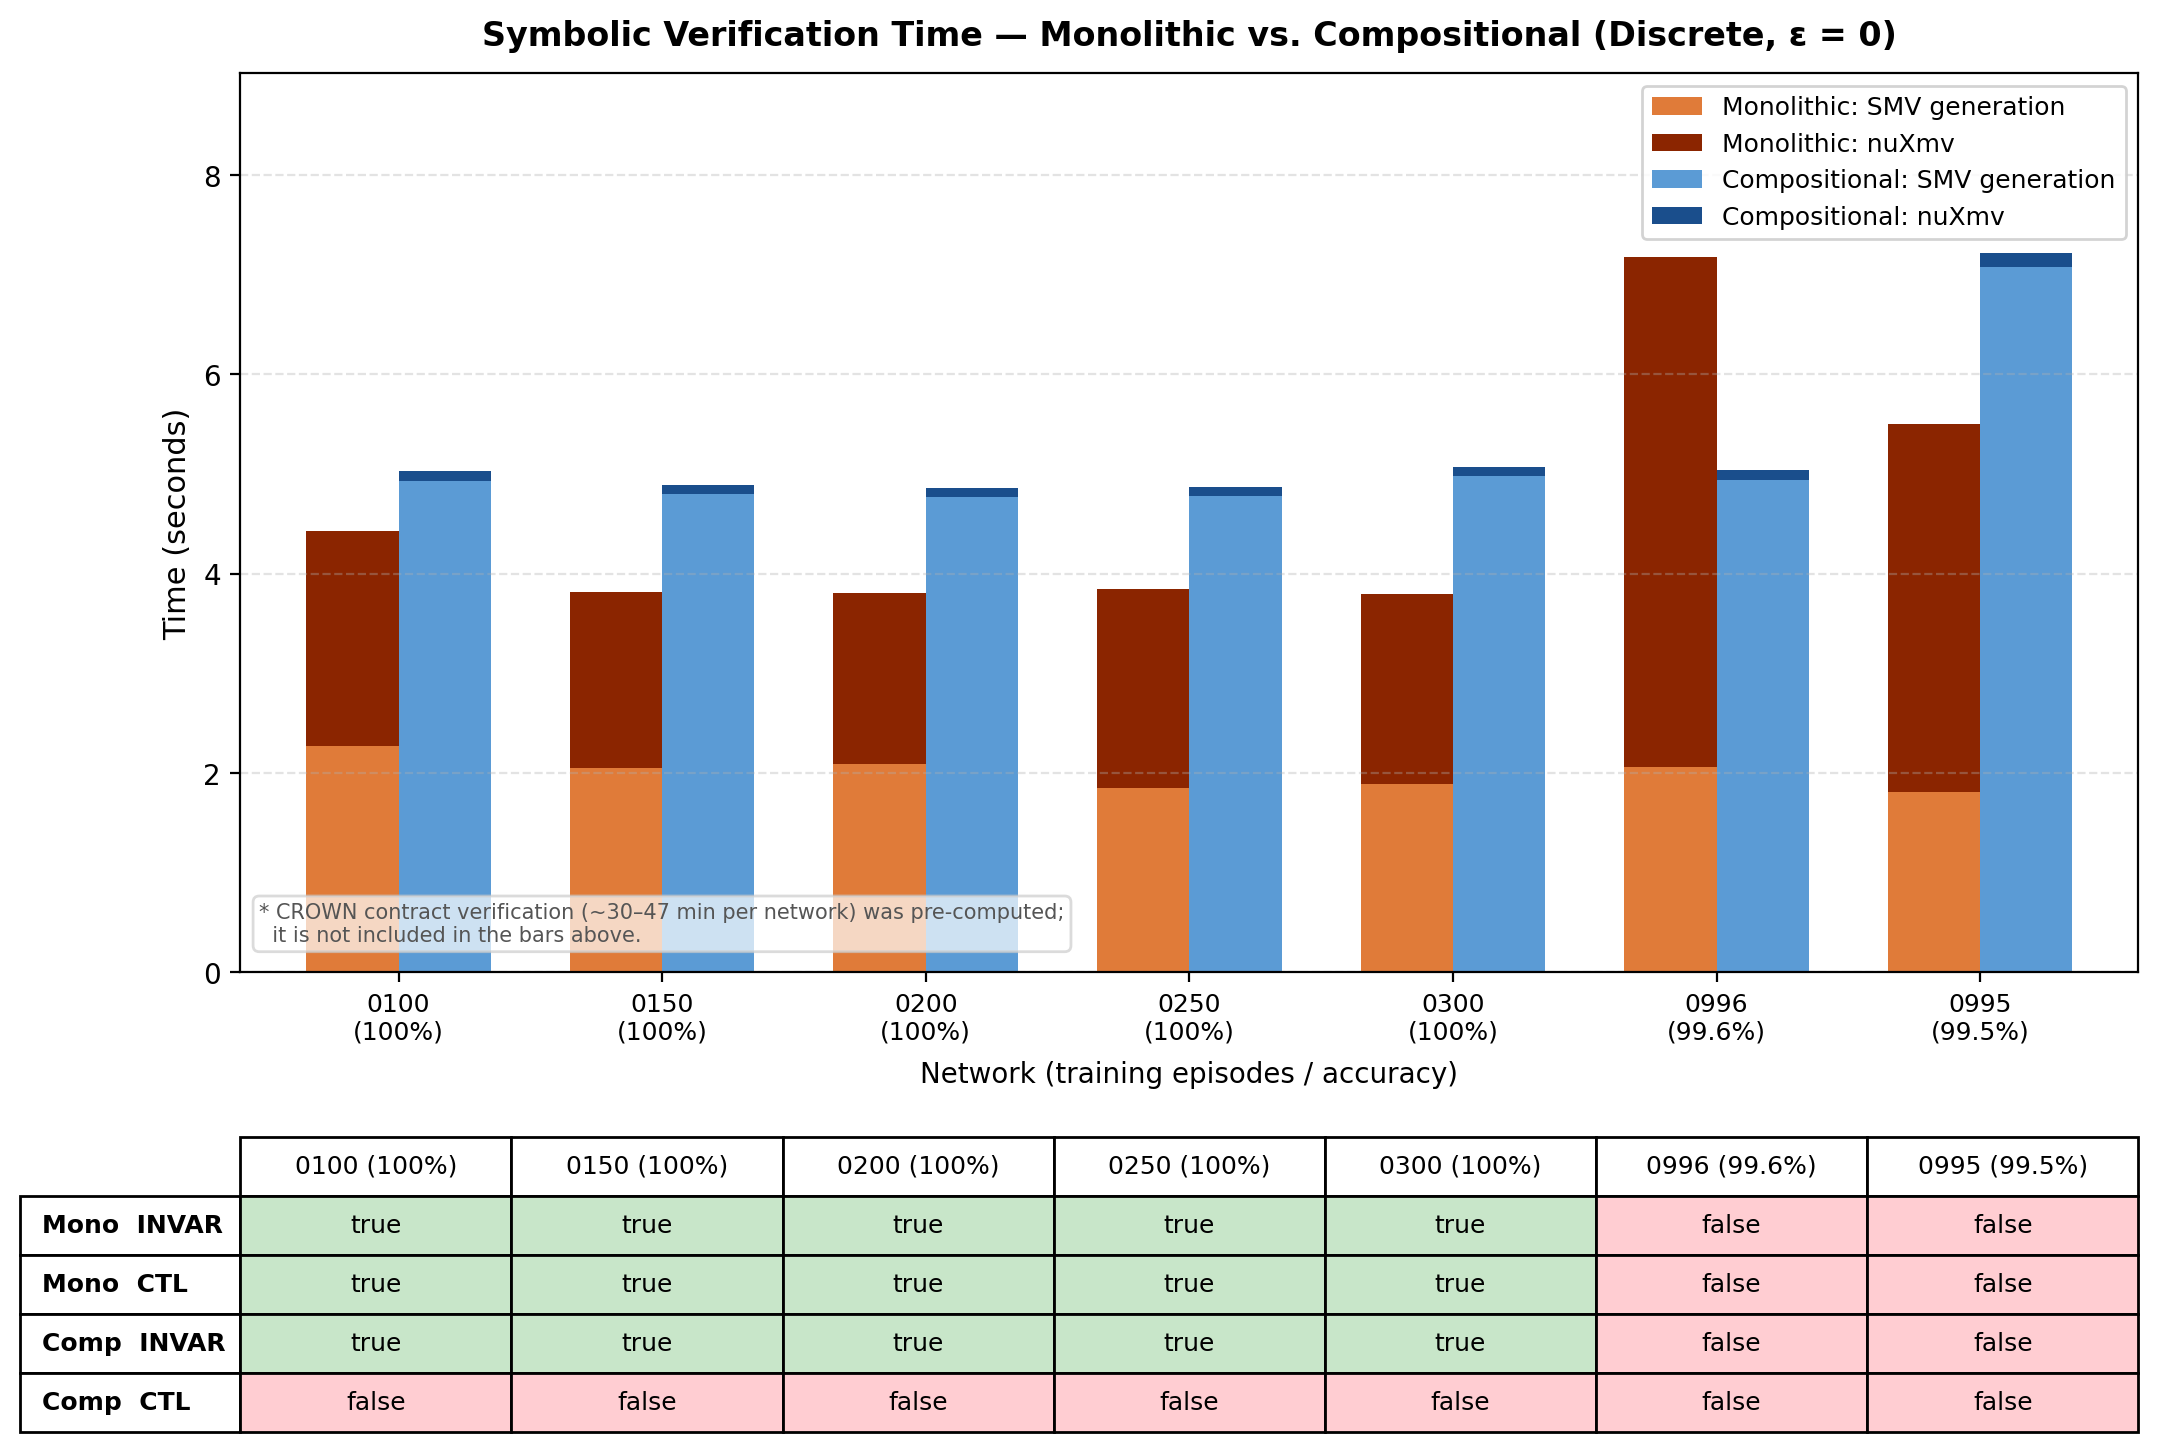
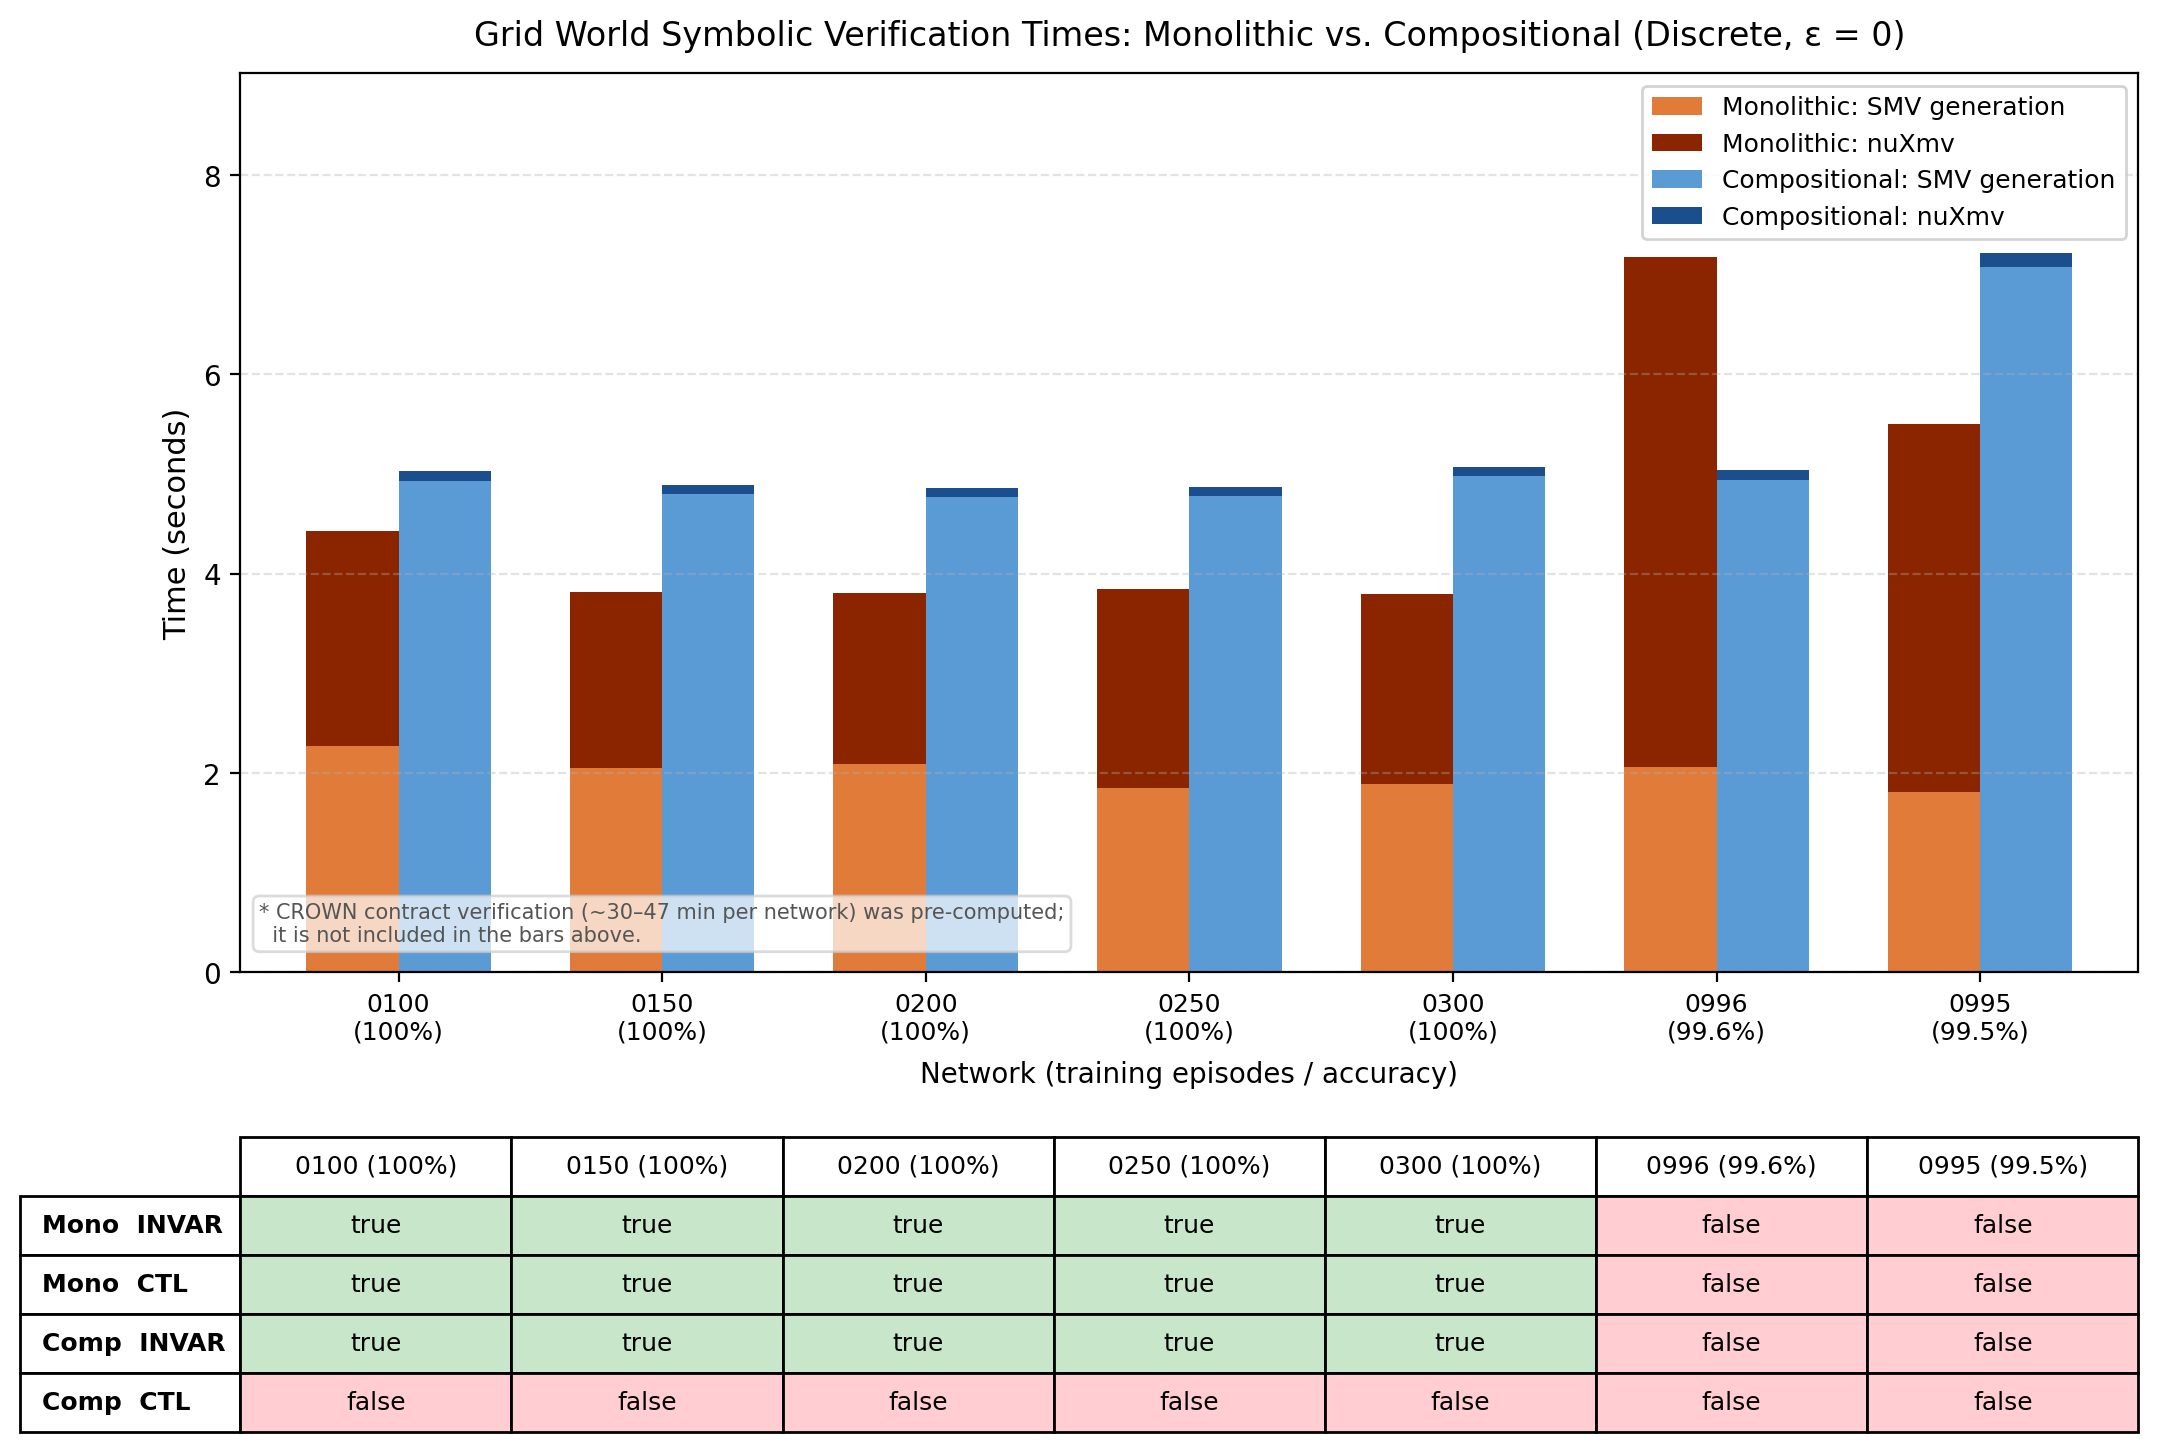
Fix ACAS-03: Edit filepaths for grid world comparison image script to not break

Changed region(s): [[0.2173, 0.0, 0.9004, 0.0309]]

diff --git a/REPRODUCIBILITY/2026_TBA/examples/grid_world/figures/image_scripts/grid_world_comparison.py b/REPRODUCIBILITY/2026_TBA/examples/grid_world/figures/image_scripts/grid_world_comparison.py
@@ -35,7 +35,7 @@ import numpy as np
 
 _HERE    = Path(__file__).parent.resolve()                                            # figures/image_scripts/
 _NEUS    = (_HERE / "../../../../../2025_NEUS/examples/grid_world/results").resolve() # REPRODUCIBILITY/2025_NEUS/...
-_COMP    = (_HERE / "../../results/compositional/discrete_goals").resolve()            # grid_world/results/...
+_COMP    = (_HERE / "../../results/compositional/discrete_goals/crown_nuXmv").resolve() # grid_world/results/...
 _OUT_DIR = (_HERE / "..").resolve()                                                    # figures/
 
 # ---------------------------------------------------------------------------
@@ -127,8 +127,8 @@ ax_bar.bar(x + width / 2, comp_nuxmv, width, color=C_COMP_NX,  label="Compositio
 
 ax_bar.set_ylabel("Time (seconds)", fontsize=11)
 ax_bar.set_title(
-    "Symbolic Verification Time — Monolithic vs. Compositional (Discrete, ε = 0)",
-    fontsize=12, fontweight="bold", pad=10,
+    "Grid World Symbolic Verification Times: Monolithic vs. Compositional (Discrete, ε = 0)",
+    fontsize=12, pad=10,
 )
 ax_bar.set_xticks(x)
 ax_bar.set_xticklabels([lbl for _, lbl, _, _ in NETWORKS], fontsize=9)
